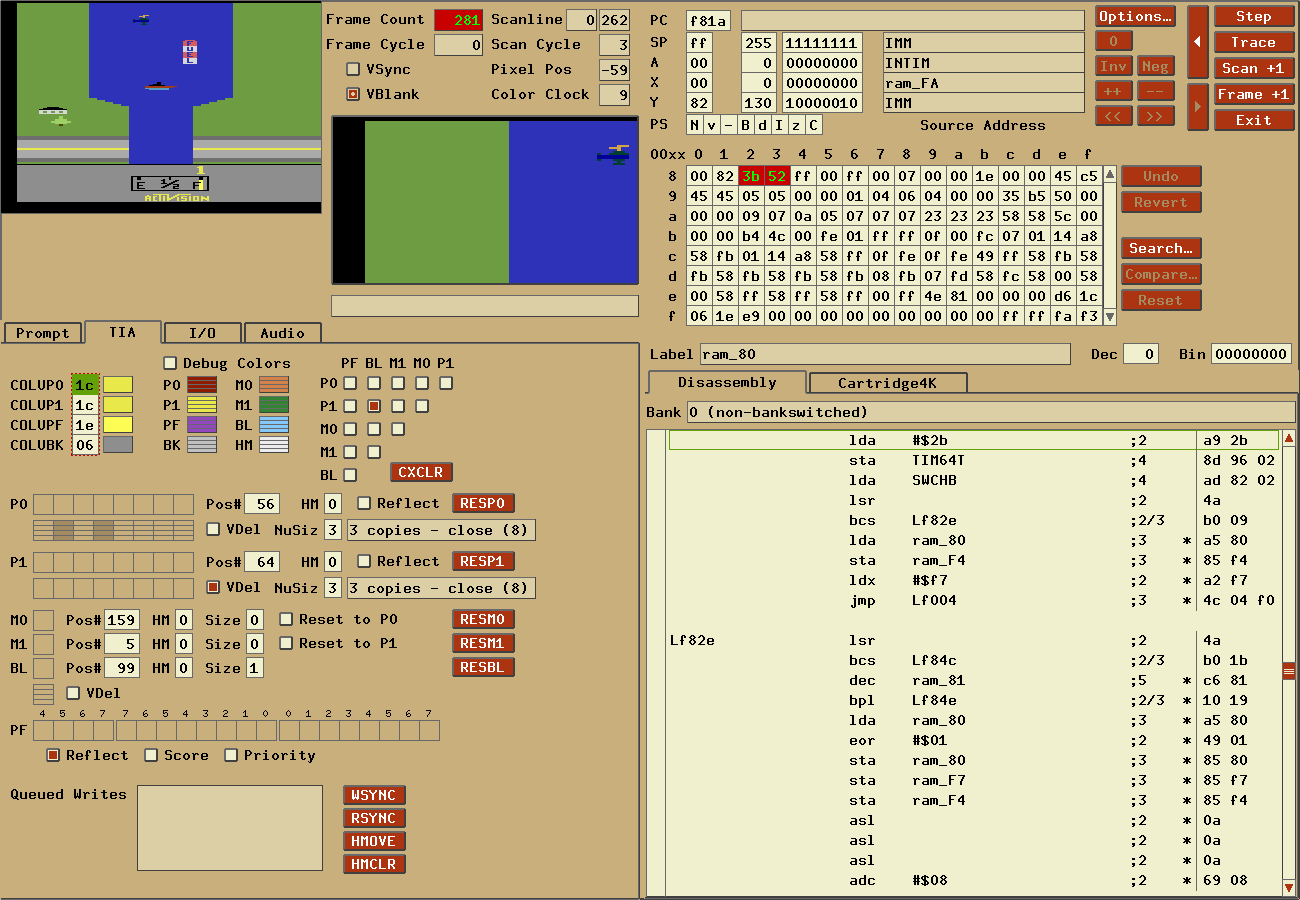
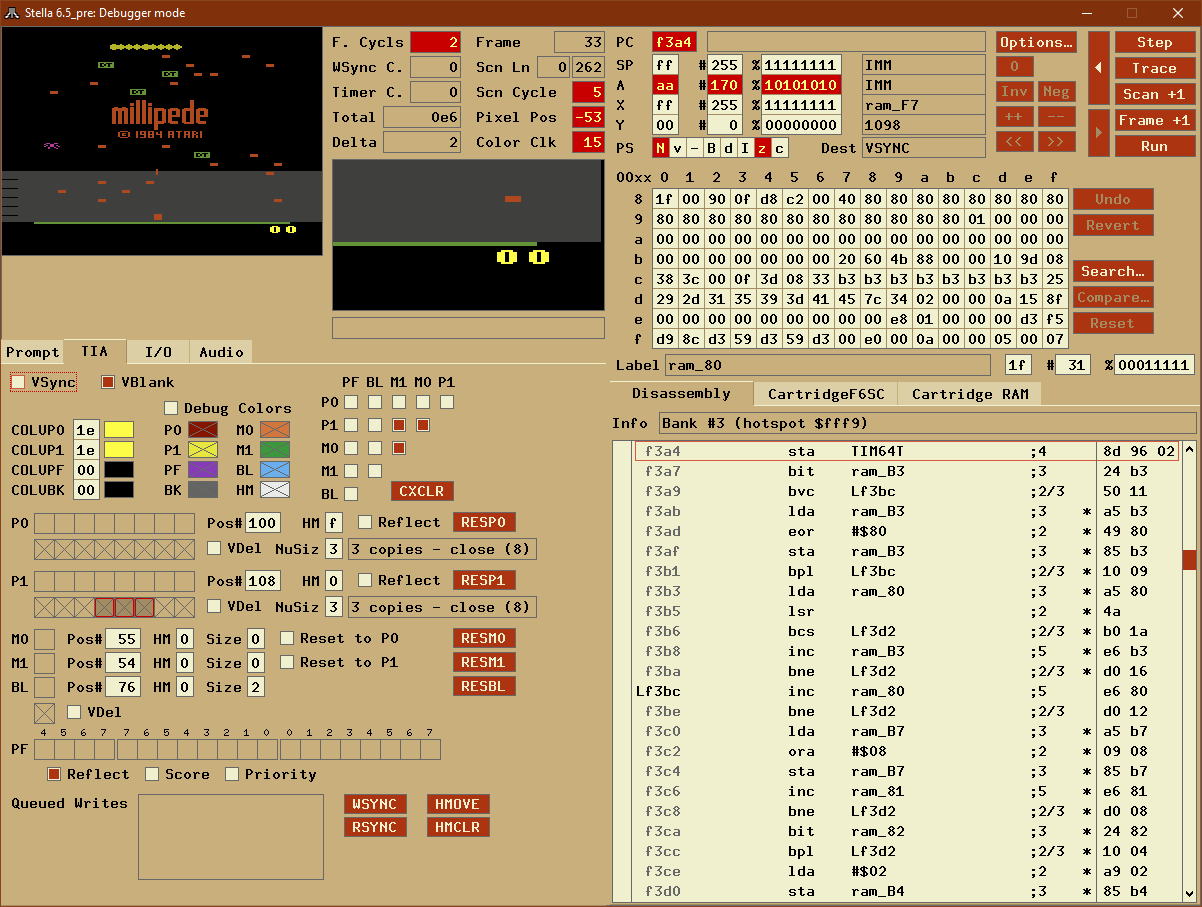
updated emulator screenshots removed dead bBasic link updated FAQ a bit

diff --git a/homebrew.html b/homebrew.html
@@ -1,85 +1,80 @@
 <!doctype html public "-//w3c//dtd html 4.0 transitional//en">
 <html>
-	<head>
-		<meta http-equiv="Content-Type" content="text/html; charset=iso-8859-1">
-		<title>Stella: &quot;A Multi-Platform Atari 2600 VCS Emulator&quot;</title>
-		<link href="cssscreen.css" rel="stylesheet" media="screen">
-		<link href="cssprint.css" rel="stylesheet" media="print">
+  <head>
+    <meta http-equiv="Content-Type" content="text/html; charset=iso-8859-1">
+    <title>Stella: &quot;A Multi-Platform Atari 2600 VCS Emulator&quot;</title>
+    <link href="cssscreen.css" rel="stylesheet" media="screen">
+    <link href="cssprint.css" rel="stylesheet" media="print">
     <link rel="icon" type="image/png" href="favicon-32x32.png" sizes="32x32" />
     <link rel="icon" type="image/png" href="favicon-16x16.png" sizes="16x16" />
-	</head>
-	<body id="homebrew">
-		<div class="rightcolumn">
-			<div class="header"><img src="title.gif" height="145" width="495"></div>
-			<div class="content">
+  </head>
+  <body id="homebrew">
+    <div class="rightcolumn">
+      <div class="header"><img src="title.gif" height="145" width="495"></div>
+      <div class="content">
 
 <!---------------------------------------------------------------->
 <table BORDER=0 CELLPADDING=6 WIDTH="100%" >
 
 <tr>
-	<td BGCOLOR="#CCCCCC"><a href="http://www.alienbill.com/2600/101/docs/stella.html">Stella&nbsp;Programmer's&nbsp;Guide</a></td>
-	<td BGCOLOR="#FFCC99">The Stella Programmer's Guide written by Steve Wright contains most of the
-		information you'll need to know to program the Atari 2600</td>
+  <td BGCOLOR="#CCCCCC"><a href="http://www.alienbill.com/2600/101/docs/stella.html">Stella&nbsp;Programmer's&nbsp;Guide</a></td>
+  <td BGCOLOR="#FFCC99">The Stella Programmer's Guide written by Steve Wright contains most of the
+    information you'll need to know to program the Atari 2600</td>
 </tr>
 
 <tr>
-	<td BGCOLOR="#CCCCCC"><a href="http://blog.kevtris.org/blogfiles/Atari%202600%20Mappers.txt">Kevin&nbsp;Horton's Bankswitching&nbsp;Document</a></td>
-	<td BGCOLOR="#FFCC99">Kevin Horton's definitive 2600 bank switching document.
-		If you need to know the bank switching scheme a cartridge uses this is the document to read</td>
+  <td BGCOLOR="#CCCCCC"><a href="http://blog.kevtris.org/blogfiles/Atari%202600%20Mappers.txt">Kevin&nbsp;Horton's Bankswitching&nbsp;Document</a></td>
+  <td BGCOLOR="#FFCC99">Kevin Horton's definitive 2600 bank switching document.
+    If you need to know the bank switching scheme a cartridge uses this is the document to read</td>
 </tr>
 
 <tr>
-	<td BGCOLOR="#CCCCCC"><a href="http://www.alienbill.com/2600/">Kirk&nbsp;Israel's 2600&nbsp;tutorials</a></td>
-	<td BGCOLOR="#FFCC99">Kirk Israel's Atari 2600 programming tutorial page, including the famous '2600 101' tutorials</td>
+  <td BGCOLOR="#CCCCCC"><a href="http://www.alienbill.com/2600/">Kirk&nbsp;Israel's 2600&nbsp;tutorials</a></td>
+  <td BGCOLOR="#FFCC99">Kirk Israel's Atari 2600 programming tutorial page, including the famous '2600 101' tutorials</td>
 </tr>
 
 <tr>
-	<td BGCOLOR="#CCCCCC"><a href="http://www.atariage.com/forums/index.php?showforum=31">2600&nbsp;Programming For&nbsp;Newbies</a></td>
-	<td BGCOLOR="#FFCC99">An AtariAge forum with many tips for the beginning programmer</td>
+  <td BGCOLOR="#CCCCCC"><a href="http://www.atariage.com/forums/index.php?showforum=31">2600&nbsp;Programming For&nbsp;Newbies</a></td>
+  <td BGCOLOR="#FFCC99">An AtariAge forum with many tips for the beginning programmer</td>
 </tr>
 
 <tr>
-	<td BGCOLOR="#CCCCCC"><a href="http://www.atariage.com/forums/index.php?showtopic=33233">Andrew&nbsp;Davie AtariAge&nbsp;tutorials</a></td>
-	<td BGCOLOR="#FFCC99">Andrew Davie's collected AtariAge forum threads on Atari 2600 programming</td>
+  <td BGCOLOR="#CCCCCC"><a href="http://www.atariage.com/forums/index.php?showtopic=33233">Andrew&nbsp;Davie AtariAge&nbsp;tutorials</a></td>
+  <td BGCOLOR="#FFCC99">Andrew Davie's collected AtariAge forum threads on Atari 2600 programming</td>
 </tr>
 
 <tr>
-	<td BGCOLOR="#CCCCCC"><a href="http://www.randomterrain.com/atari-2600-memories.html">Atari&nbsp;2600&nbsp;Memories</a></td>
-	<td BGCOLOR="#FFCC99">A collection of programming tips and general Atari 2600 trivia from Random Terrain</td>
+  <td BGCOLOR="#CCCCCC"><a href="http://www.randomterrain.com/atari-2600-memories.html">Atari&nbsp;2600&nbsp;Memories</a></td>
+  <td BGCOLOR="#FFCC99">A collection of programming tips and general Atari 2600 trivia from Random Terrain</td>
 </tr>
 
 <tr>
-	<td BGCOLOR="#CCCCCC"><a href="http://bataribasic.com">batari&nbsp;Basic</a></td>
-	<td BGCOLOR="#FFCC99">Create games for the Atari 2600 in the BASIC programming language</td>
-</tr>
-
-<tr>
-	<td BGCOLOR="#CCCCCC"><a href="4A50.html">John Payson's 4A50 bankswitching scheme</a></td>
-	<td BGCOLOR="#FFCC99">Complete description of the 4A50 bankswitching scheme, which for now only exists in emulators.</td>
+  <td BGCOLOR="#CCCCCC"><a href="4A50.html">John Payson's 4A50 bankswitching scheme</a></td>
+  <td BGCOLOR="#FFCC99">Complete description of the 4A50 bankswitching scheme, which for now only exists in emulators.</td>
 </tr>
 
 </table>
 <!---------------------------------------------------------------->
 
-			</div>
-			<div class="footer"><hr><p>Copyright &copy; 1995-2021
+      </div>
+      <div class="footer"><hr><p>Copyright &copy; 1995-2021
 <a href="http://www.bradfordmott.com">Bradford W. Mott</a>,
 <a href="http://minbar.org">Stephen Anthony</a> and
 <a href="theteam.html">The Stella Team</a>
-<br/>	Site Updated April 20, 2021</p>
+<br/> Site Updated April 20, 2021</p>
 </div>
-		</div>
-		<div class="leftcolumn"><img src="menu-title.gif" width="125" height="125">
+    </div>
+    <div class="leftcolumn"><img src="menu-title.gif" width="125" height="125">
 
 <div class="menuheader">General</div>
 <ul>
-	<li><a href="index.html"       id="about"       >About Stella</a>
-	<li><a href="donations.html"   id="donations"   >DonationWare</a>
-	<li><a href="changelog.html"   id="news"        >ChangeLog</a>
-	<li><a href="screenshots.html" id="screenshots" >Screen Shots</a>
-	<li><a href="theteam.html"     id="team"        >The Team</a>
-	<li><a href="credits.html"     id="credits"     >Credits List</a>
-	<li><a href="todo.html"        id="todo"        >Todo List</a>
+  <li><a href="index.html"       id="about"       >About Stella</a>
+  <li><a href="donations.html"   id="donations"   >DonationWare</a>
+  <li><a href="changelog.html"   id="news"        >ChangeLog</a>
+  <li><a href="screenshots.html" id="screenshots" >Screen Shots</a>
+  <li><a href="theteam.html"     id="team"        >The Team</a>
+  <li><a href="credits.html"     id="credits"     >Credits List</a>
+  <li><a href="todo.html"        id="todo"        >Todo List</a>
 </ul>
 <div class="menuheader">Documentation</div>
 <ul>
@@ -88,13 +83,13 @@
 </ul>
 <div class="menuheader">Downloads</div>
 <ul>
-	<li><a href="downloads.html"   id="stable"      >Stable Releases</a>
-	<li><a href="development.html" id="development" >Development</a>
+  <li><a href="downloads.html"   id="stable"      >Stable Releases</a>
+  <li><a href="development.html" id="development" >Development</a>
 </ul>
 <div class="menuheader">Important Links</div>
 <ul>
-	<li><a href="atari2600links.html" id="atarilinks"  >Atari 2600 Links</a>
-	<li><a href="homebrew.html"       id="homebrew"    >Homebrew Development</a>
+  <li><a href="atari2600links.html" id="atarilinks"  >Atari 2600 Links</a>
+  <li><a href="homebrew.html"       id="homebrew"    >Homebrew Development</a>
 </ul>
 
 <div>&nbsp;</div>
@@ -112,5 +107,5 @@
 <img alt="" border="0" src="https://www.paypal.com/en_CA/i/scr/pixel.gif" width="1" height="1" />
 </form>
 </div>
-	</body>
+  </body>
 </html>

diff --git a/atari2600links.html b/atari2600links.html
@@ -1,70 +1,70 @@
 <!doctype html public "-//w3c//dtd html 4.0 transitional//en">
 <html>
-	<head>
-		<meta http-equiv="Content-Type" content="text/html; charset=iso-8859-1">
-		<title>Stella: &quot;A Multi-Platform Atari 2600 VCS Emulator&quot;</title>
-		<link href="cssscreen.css" rel="stylesheet" media="screen">
-		<link href="cssprint.css" rel="stylesheet" media="print">
+  <head>
+    <meta http-equiv="Content-Type" content="text/html; charset=iso-8859-1">
+    <title>Stella: &quot;A Multi-Platform Atari 2600 VCS Emulator&quot;</title>
+    <link href="cssscreen.css" rel="stylesheet" media="screen">
+    <link href="cssprint.css" rel="stylesheet" media="print">
     <link rel="icon" type="image/png" href="favicon-32x32.png" sizes="32x32" />
     <link rel="icon" type="image/png" href="favicon-16x16.png" sizes="16x16" />
-	</head>
-	<body id="atarilinks">
-		<div class="rightcolumn">
-			<div class="header"><img src="title.gif" height="145" width="495"></div>
-			<div class="content">
+  </head>
+  <body id="atarilinks">
+    <div class="rightcolumn">
+      <div class="header"><img src="title.gif" height="145" width="495"></div>
+      <div class="content">
 
 <!---------------------------------------------------------------->
 <table BORDER=0 CELLPADDING=6 WIDTH="100%" >
 
 <tr>
-	<td BGCOLOR="#CCCCCC"><a href="http://www.atariage.com/">AtariAge</a></td>
-	<td BGCOLOR="#FFCC99">Just about everything you ever wanted to know about
-		the Atari 2600 can be found here</td>
+  <td BGCOLOR="#CCCCCC"><a href="http://www.atariage.com/">AtariAge</a></td>
+  <td BGCOLOR="#FFCC99">Just about everything you ever wanted to know about
+    the Atari 2600 can be found here</td>
 </tr>
 
 <tr>
-	<td BGCOLOR="#CCCCCC"><a href="http://www.atarimania.com/start.php">Atari&nbsp;Mania</a></td>
-	<td BGCOLOR="#FFCC99">A comprehensive database/collection of all things Atari-related,
-		including ROMs, snapshots and instructions, user guides, and more</td>
+  <td BGCOLOR="#CCCCCC"><a href="http://www.atarimania.com/start.php">Atarimania</a></td>
+  <td BGCOLOR="#FFCC99">A comprehensive database/collection of all things Atari-related,
+    including ROMs, snapshots and instructions, user guides, and more</td>
 </tr>
 
 <!--
 <tr>
-	<td BGCOLOR="#CCCCCC"><a href="http://www.tripoint.org/kevtris/misc/texts.html">Kevin&nbsp;Horton's documents</a></td>
-	<td BGCOLOR="#FFCC99">Various documents about the 32in1 cart, Atari 2600 easter eggs, and more</td>
+  <td BGCOLOR="#CCCCCC"><a href="http://www.tripoint.org/kevtris/misc/texts.html">Kevin&nbsp;Horton's documents</a></td>
+  <td BGCOLOR="#FFCC99">Various documents about the 32in1 cart, Atari 2600 easter eggs, and more</td>
 </tr>
 -->
 <tr>
-	<td BGCOLOR="#CCCCCC"><a href="http://en.wikipedia.org/wiki/Atari_2600">Atari&nbsp;2600 on&nbsp;Wikipedia</a></td>
-	<td BGCOLOR="#FFCC99">Historical information about the Atari 2600 console</td>
+  <td BGCOLOR="#CCCCCC"><a href="http://en.wikipedia.org/wiki/Atari_2600">Atari&nbsp;2600 on&nbsp;Wikipedia</a></td>
+  <td BGCOLOR="#FFCC99">Historical information about the Atari 2600 console</td>
 </tr>
 <tr>
-	<td BGCOLOR="#CCCCCC"><a href="http://en.wikipedia.org/wiki/Stella_(emulator)">Stella&nbsp;on&nbsp;Wikipedia</a></td>
-	<td BGCOLOR="#FFCC99">Wikipedia page for Stella itself</td>
+  <td BGCOLOR="#CCCCCC"><a href="http://en.wikipedia.org/wiki/Stella_(emulator)">Stella&nbsp;on&nbsp;Wikipedia</a></td>
+  <td BGCOLOR="#FFCC99">Wikipedia page for Stella itself</td>
 </tr>
 
 </table>
 <!---------------------------------------------------------------->
 
-			</div>
-			<div class="footer"><hr><p>Copyright &copy; 1995-2021
+      </div>
+      <div class="footer"><hr><p>Copyright &copy; 1995-2021
 <a href="http://www.bradfordmott.com">Bradford W. Mott</a>,
 <a href="http://minbar.org">Stephen Anthony</a> and
 <a href="theteam.html">The Stella Team</a>
-<br/>	Site Updated April 20, 2021</p>
+<br/> Site Updated April 20, 2021</p>
 </div>
-		</div>
-		<div class="leftcolumn"><img src="menu-title.gif" width="125" height="125">
+    </div>
+    <div class="leftcolumn"><img src="menu-title.gif" width="125" height="125">
 
 <div class="menuheader">General</div>
 <ul>
-	<li><a href="index.html"       id="about"       >About Stella</a>
-	<li><a href="donations.html"   id="donations"   >DonationWare</a>
-	<li><a href="changelog.html"   id="news"        >ChangeLog</a>
-	<li><a href="screenshots.html" id="screenshots" >Screen Shots</a>
-	<li><a href="theteam.html"     id="team"        >The Team</a>
-	<li><a href="credits.html"     id="credits"     >Credits List</a>
-	<li><a href="todo.html"        id="todo"        >Todo List</a>
+  <li><a href="index.html"       id="about"       >About Stella</a>
+  <li><a href="donations.html"   id="donations"   >DonationWare</a>
+  <li><a href="changelog.html"   id="news"        >ChangeLog</a>
+  <li><a href="screenshots.html" id="screenshots" >Screen Shots</a>
+  <li><a href="theteam.html"     id="team"        >The Team</a>
+  <li><a href="credits.html"     id="credits"     >Credits List</a>
+  <li><a href="todo.html"        id="todo"        >Todo List</a>
 </ul>
 <div class="menuheader">Documentation</div>
 <ul>
@@ -73,13 +73,13 @@
 </ul>
 <div class="menuheader">Downloads</div>
 <ul>
-	<li><a href="downloads.html"   id="stable"      >Stable Releases</a>
-	<li><a href="development.html" id="development" >Development</a>
+  <li><a href="downloads.html"   id="stable"      >Stable Releases</a>
+  <li><a href="development.html" id="development" >Development</a>
 </ul>
 <div class="menuheader">Important Links</div>
 <ul>
-	<li><a href="atari2600links.html" id="atarilinks"  >Atari 2600 Links</a>
-	<li><a href="homebrew.html"       id="homebrew"    >Homebrew Development</a>
+  <li><a href="atari2600links.html" id="atarilinks"  >Atari 2600 Links</a>
+  <li><a href="homebrew.html"       id="homebrew"    >Homebrew Development</a>
 </ul>
 
 <div>&nbsp;</div>
@@ -97,5 +97,5 @@
 <img alt="" border="0" src="https://www.paypal.com/en_CA/i/scr/pixel.gif" width="1" height="1" />
 </form>
 </div>
-	</body>
+  </body>
 </html>

diff --git a/faq.html b/faq.html
@@ -1,17 +1,17 @@
 <!doctype html public "-//w3c//dtd html 4.0 transitional//en">
 <html>
-	<head>
-		<meta http-equiv="Content-Type" content="text/html; charset=iso-8859-1">
-		<title>Stella: &quot;A Multi-Platform Atari 2600 VCS Emulator&quot;</title>
-		<link href="cssscreen.css" rel="stylesheet" media="screen">
-		<link href="cssprint.css" rel="stylesheet" media="print">
+  <head>
+    <meta http-equiv="Content-Type" content="text/html; charset=iso-8859-1">
+    <title>Stella: &quot;A Multi-Platform Atari 2600 VCS Emulator&quot;</title>
+    <link href="cssscreen.css" rel="stylesheet" media="screen">
+    <link href="cssprint.css" rel="stylesheet" media="print">
     <link rel="icon" type="image/png" href="favicon-32x32.png" sizes="32x32" />
     <link rel="icon" type="image/png" href="favicon-16x16.png" sizes="16x16" />
-	</head>
-	<body id="faq">
-		<div class="rightcolumn">
-			<div class="header"><img src="title.gif" height="145" width="495"></div>
-			<div class="content">
+  </head>
+  <body id="faq">
+    <div class="rightcolumn">
+      <div class="header"><img src="title.gif" height="145" width="495"></div>
+      <div class="content">
 
 <!---------------------------------------------------------------->
 <p>The following are a list of common questions that
@@ -156,7 +156,8 @@ particular game too.</p>
 is 'mapped' to Stella (ie, which keyboard key, mouse button or gamepad
 button/axis corresponds to which event on a real system).  For this, see the
 various mappings in the manual.  The defaults mappings are usually fine, but
-Stella is very configurable, and these mappings can be changed to your own preferences.  This is explained under 'Advanced Configuration' in the manual,
+Stella is very configurable, and these mappings can be changed to your own preferences.
+This is explained under 'Advanced Configuration' in the manual,
 and is beyond the scope of this FAQ.</p>
 
 <br>
@@ -196,14 +197,14 @@ it again (which admittedly makes the ROM launcher essentially useless).</blockqu
 <h3>I'm developing a new game or downloaded a homebrew ROM that uses a
 custom controller, and I can't get Stella to recognize it.</h3>
 <p>By default, Stella will use its internal database to determine what
-controller type to use for a ROM.  Obviously, this won't work for new
+controller type to use for a ROM.  If there is no entry, it will try
+to detect the controller by analyzing the ROM. This may fail for new
 ROMs that have been released since Stella was last updated.  In this
 case, the default is to assume a joystick controller.</p>
 <p>If you want something other than a joystick, then you'll have to
 add custom properties for the ROM.  Go to Options -&gt; Game Properties
--&gt; Controller, and change to the desired type.  Then click 'OK'
-and restart the ROM.  These settings are now saved, and need not be
-entered again.</p>
+-&gt; Controller, and change to the desired type.  Then click 'OK'.
+These settings are now saved, and need not be entered again.</p>
 <p><b>Note to developers:</b> Each time you recompile your ROM, you're
 essentially creating what Stella considers a new ROM image.  As such,
 the game properties you set previously won't work, and will have to be
@@ -245,25 +246,25 @@ Stelladaptor</a>,  or <a href="http://bliss-box.net">Bliss-Box</a>.</p>
 
 <!---------------------------------------------------------------->
 
-			</div>
-			<div class="footer"><hr><p>Copyright &copy; 1995-2021
+      </div>
+      <div class="footer"><hr><p>Copyright &copy; 1995-2021
 <a href="http://www.bradfordmott.com">Bradford W. Mott</a>,
 <a href="http://minbar.org">Stephen Anthony</a> and
 <a href="theteam.html">The Stella Team</a>
-<br/>	Site Updated April 20, 2021</p>
+<br/> Site Updated April 20, 2021</p>
 </div>
-		</div>
-		<div class="leftcolumn"><img src="menu-title.gif" width="125" height="125">
+    </div>
+    <div class="leftcolumn"><img src="menu-title.gif" width="125" height="125">
 
 <div class="menuheader">General</div>
 <ul>
-	<li><a href="index.html"       id="about"       >About Stella</a>
-	<li><a href="donations.html"   id="donations"   >DonationWare</a>
-	<li><a href="changelog.html"   id="news"        >ChangeLog</a>
-	<li><a href="screenshots.html" id="screenshots" >Screen Shots</a>
-	<li><a href="theteam.html"     id="team"        >The Team</a>
-	<li><a href="credits.html"     id="credits"     >Credits List</a>
-	<li><a href="todo.html"        id="todo"        >Todo List</a>
+  <li><a href="index.html"       id="about"       >About Stella</a>
+  <li><a href="donations.html"   id="donations"   >DonationWare</a>
+  <li><a href="changelog.html"   id="news"        >ChangeLog</a>
+  <li><a href="screenshots.html" id="screenshots" >Screen Shots</a>
+  <li><a href="theteam.html"     id="team"        >The Team</a>
+  <li><a href="credits.html"     id="credits"     >Credits List</a>
+  <li><a href="todo.html"        id="todo"        >Todo List</a>
 </ul>
 <div class="menuheader">Documentation</div>
 <ul>
@@ -272,13 +273,13 @@ Stelladaptor</a>,  or <a href="http://bliss-box.net">Bliss-Box</a>.</p>
 </ul>
 <div class="menuheader">Downloads</div>
 <ul>
-	<li><a href="downloads.html"   id="stable"      >Stable Releases</a>
-	<li><a href="development.html" id="development" >Development</a>
+  <li><a href="downloads.html"   id="stable"      >Stable Releases</a>
+  <li><a href="development.html" id="development" >Development</a>
 </ul>
 <div class="menuheader">Important Links</div>
 <ul>
-	<li><a href="atari2600links.html" id="atarilinks"  >Atari 2600 Links</a>
-	<li><a href="homebrew.html"       id="homebrew"    >Homebrew Development</a>
+  <li><a href="atari2600links.html" id="atarilinks"  >Atari 2600 Links</a>
+  <li><a href="homebrew.html"       id="homebrew"    >Homebrew Development</a>
 </ul>
 
 <div>&nbsp;</div>
@@ -296,5 +297,5 @@ Stelladaptor</a>,  or <a href="http://bliss-box.net">Bliss-Box</a>.</p>
 <img alt="" border="0" src="https://www.paypal.com/en_CA/i/scr/pixel.gif" width="1" height="1" />
 </form>
 </div>
-	</body>
+  </body>
 </html>
